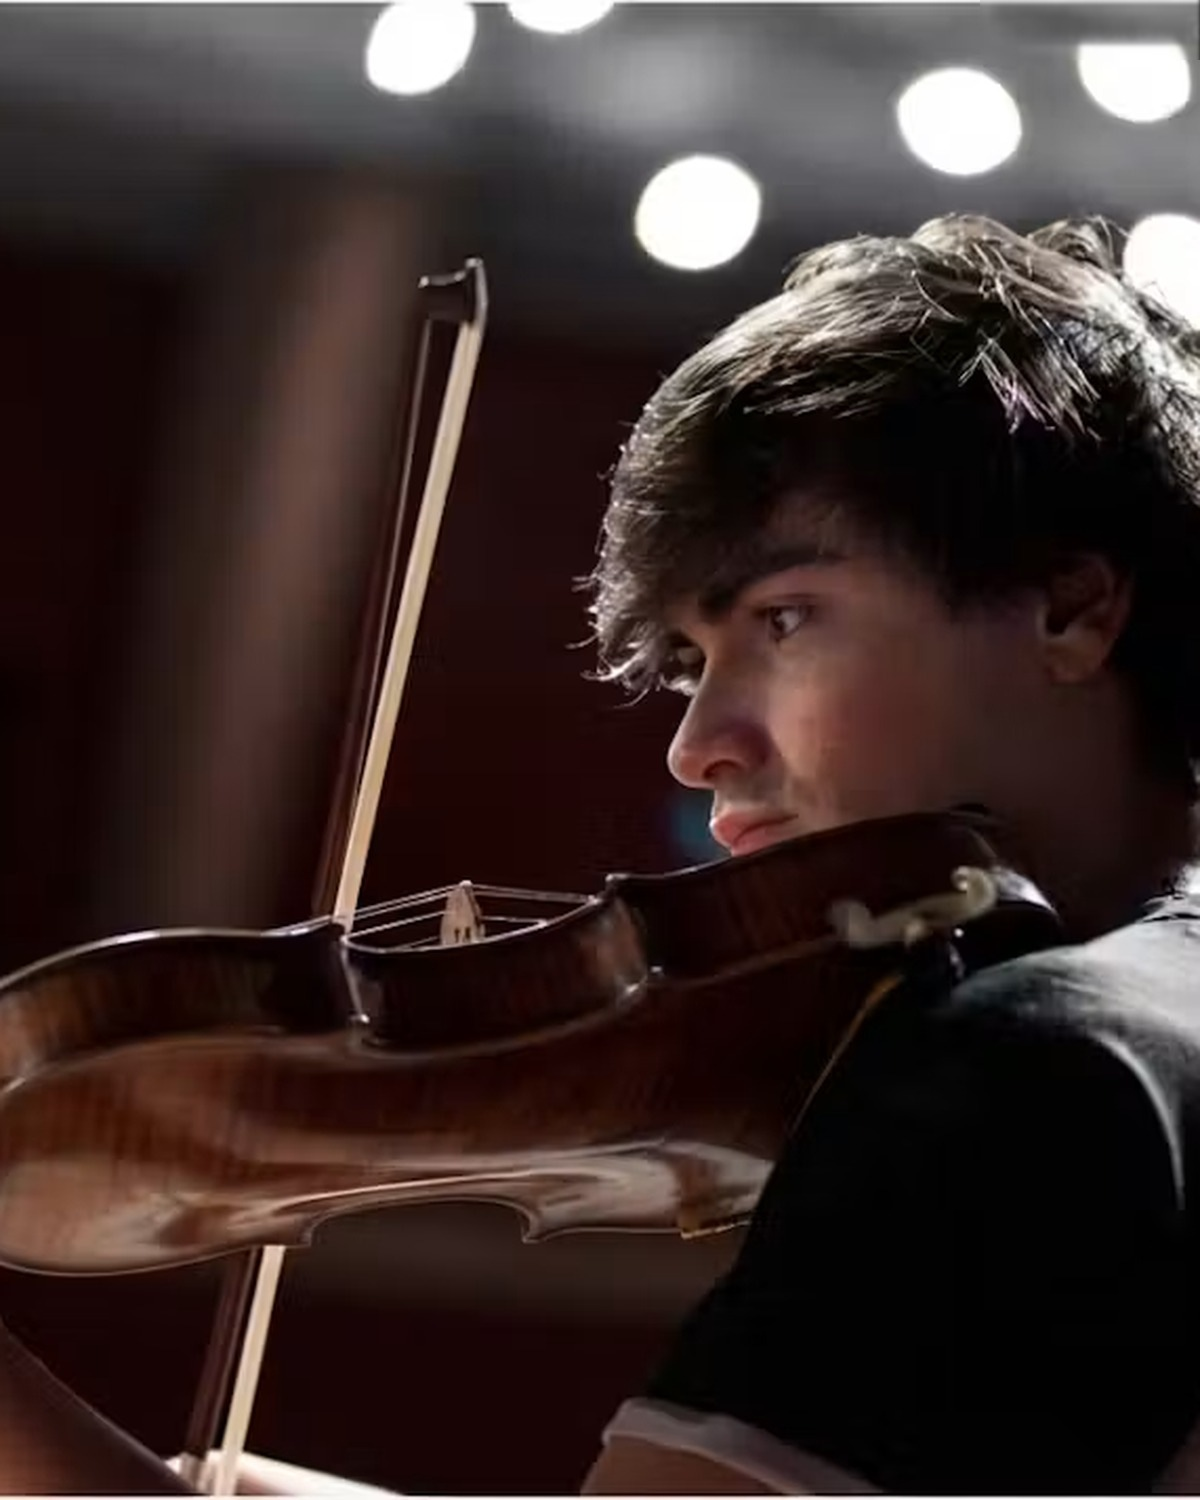
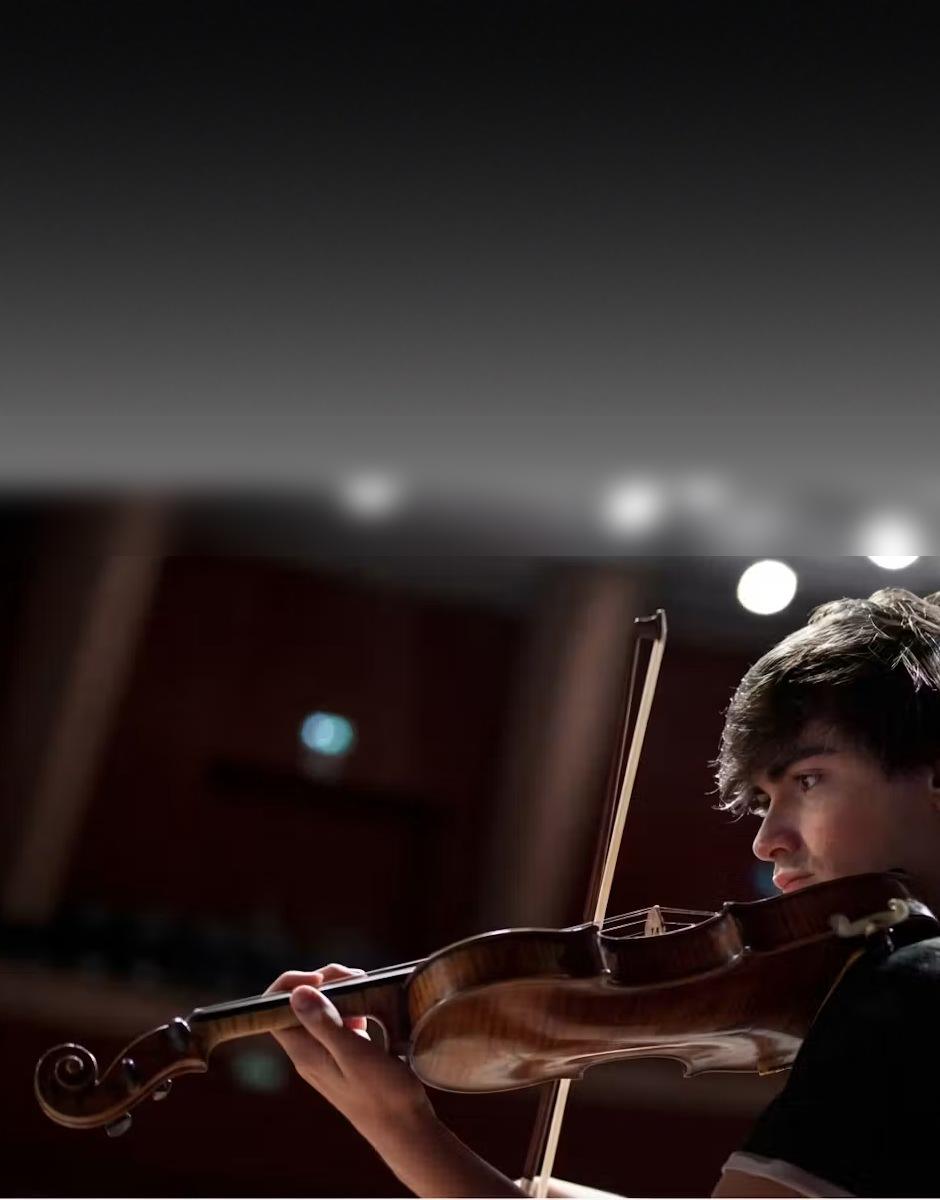
Ritratto Bio: violino integrale visibile con dissolvenza verso l'alto

diff --git a/index.html b/index.html
@@ -54,7 +54,7 @@
     <div class="wrap">
       <div class="grid">
         <div class="photo-panel">
-          <img src="img/bio-portrait.jpg" alt="Ritratto di Leonardo Moretti con il violino" style="width:100%; height:100%; object-fit:cover; object-position:center 20%;">
+          <img src="img/bio-portrait.jpg" alt="Ritratto di Leonardo Moretti con il violino" style="width:100%; height:100%; object-fit:cover; object-position:center 100%;">
         </div>
         <div class="copy">
           <div class="eyebrow">Leonardo</div>
